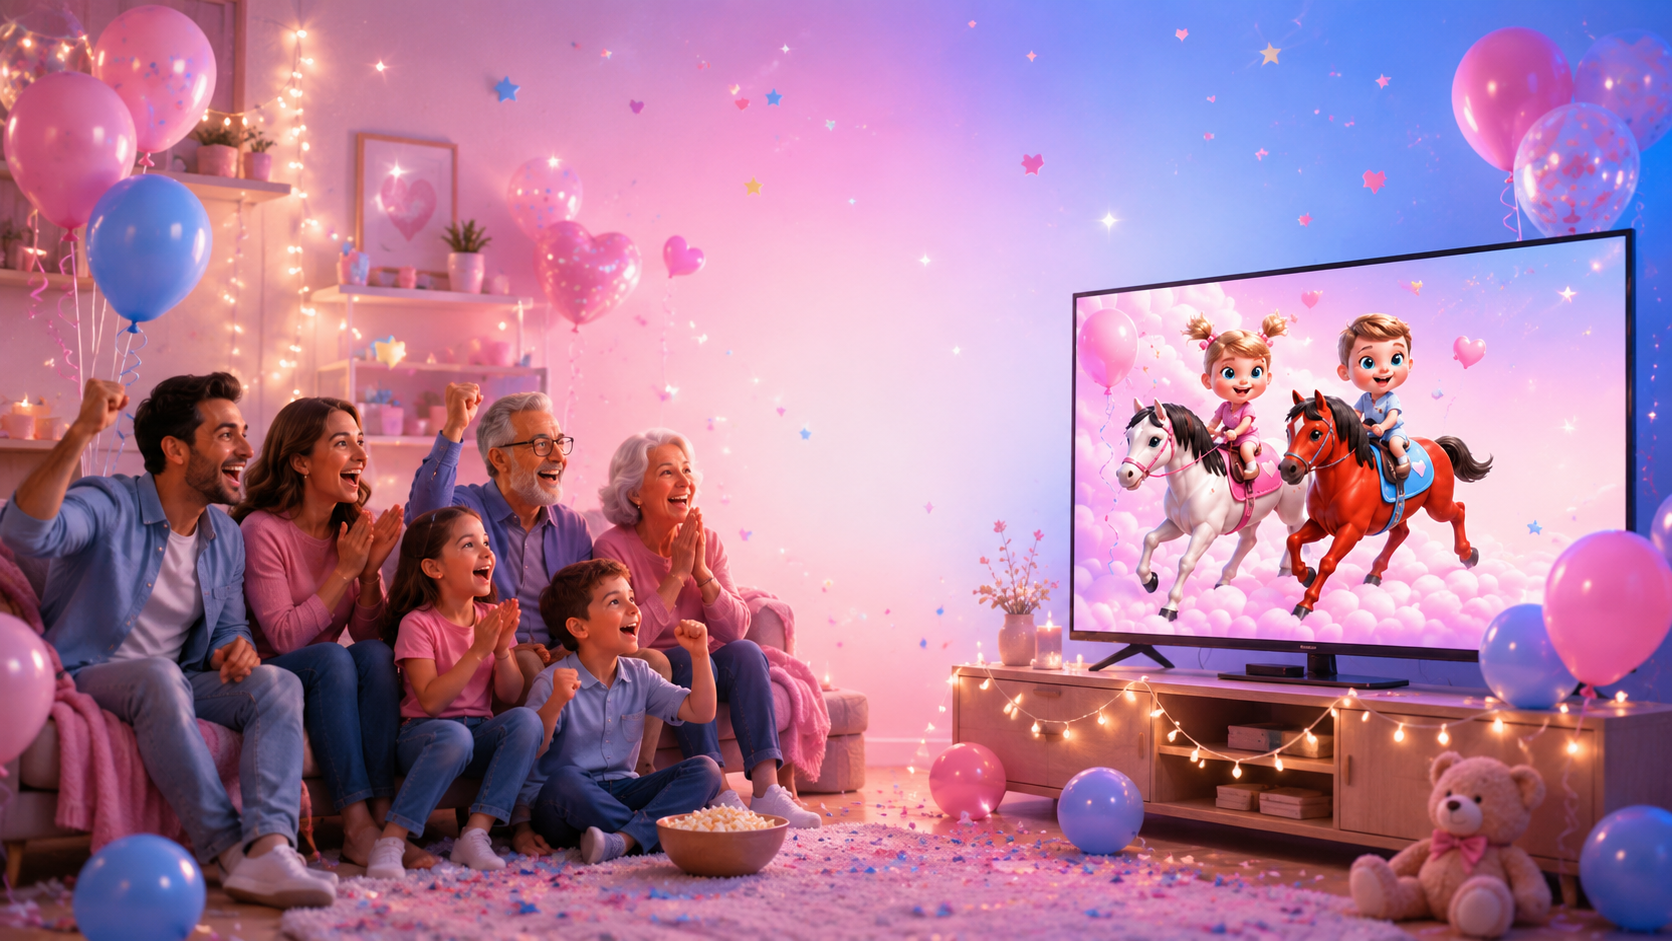
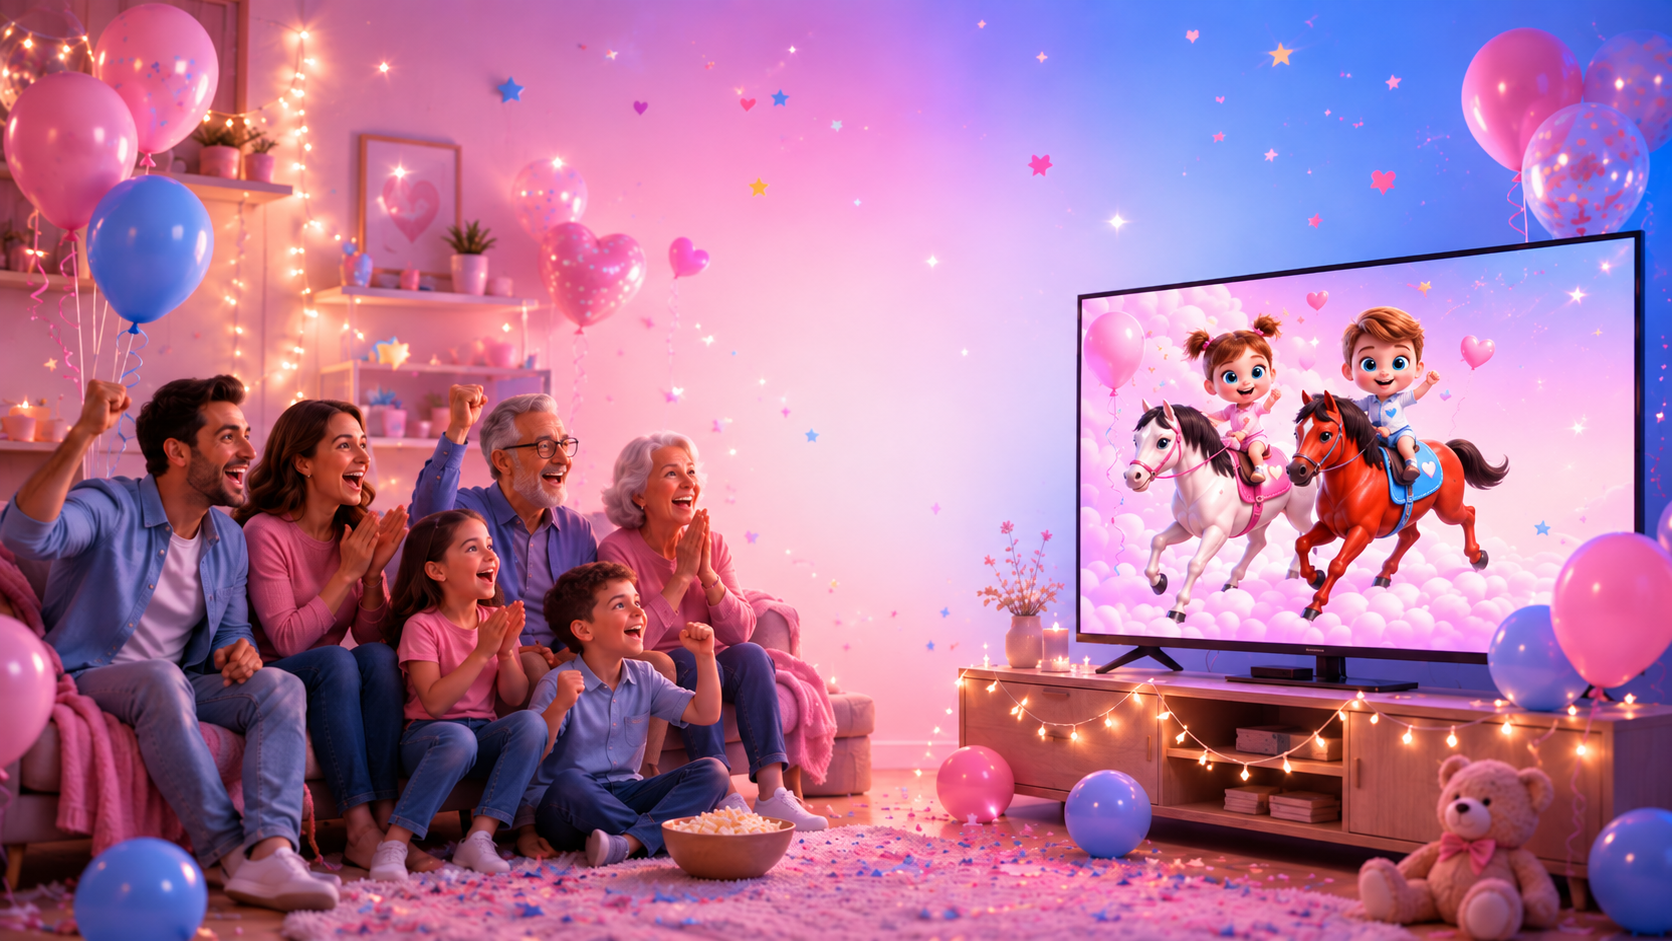
casting guide, time warning, no reveal page

diff --git a/src/components/party/CastInstructionsModal.tsx b/src/components/party/CastInstructionsModal.tsx
@@ -1,0 +1,175 @@
+"use client";
+
+import { useEffect, useState, type ReactNode } from "react";
+import { Lightbulb, Tv, X } from "lucide-react";
+
+type Platform = "ios" | "android" | "windows" | "mac";
+
+type Guide = {
+  label: string;
+  heading: string;
+  steps: ReactNode[];
+  note?: string;
+};
+
+const GUIDES: Record<Platform, Guide> = {
+  ios: {
+    label: "iPhone / iPad",
+    heading: "Using AirPlay / Screen Mirroring",
+    steps: [
+      "Connect your iPhone or iPad and compatible TV to the same Wi-Fi network.",
+      <>Open <strong>Control Center</strong> by swiping down from the top-right corner (or up from the bottom on older devices).</>,
+      <>Tap <strong>Screen Mirroring</strong>.</>,
+      "Select your Apple TV or AirPlay-compatible smart TV.",
+      "Keep your reveal countdown open and enjoy the big moment!",
+    ],
+  },
+  android: {
+    label: "Android",
+    heading: "Using Cast / Screen Mirroring",
+    steps: [
+      "Connect your Android device and compatible TV to the same Wi-Fi network.",
+      "Swipe down to open Quick Settings.",
+      <>Look for <strong>Cast</strong>, <strong>Screen Cast</strong>, or <strong>Smart View</strong> (names vary by device).</>,
+      "Select your TV and follow any on-screen prompts.",
+      "Return to your reveal countdown and enjoy!",
+    ],
+    note: "For Chromecast or Google TV, you can also use the Google Home app's Cast screen option.",
+  },
+  windows: {
+    label: "Windows PC",
+    heading: "Using Wireless Display",
+    steps: [
+      "Turn on your TV and enable screen mirroring or wireless display if supported.",
+      <>Press <strong>Windows + K</strong> on your PC.</>,
+      "Select your compatible TV from the available devices.",
+      "Follow any connection prompts.",
+      "Keep your browser open on the reveal countdown.",
+    ],
+    note: "You can also connect your computer to the TV using an HDMI cable.",
+  },
+  mac: {
+    label: "Mac",
+    heading: "Using AirPlay / Screen Mirroring",
+    steps: [
+      "Connect your Mac and AirPlay-compatible TV to the same Wi-Fi network.",
+      <>Click <strong>Control Center</strong> in your Mac&apos;s menu bar.</>,
+      <>Select <strong>Screen Mirroring</strong>.</>,
+      "Choose your TV and follow any prompts.",
+      "Display your reveal countdown on the shared screen.",
+    ],
+  },
+};
+
+const PLATFORM_ORDER: Platform[] = ["ios", "android", "windows", "mac"];
+
+/** Best guess at the viewer's platform so the right steps show first. */
+function detectPlatform(): Platform {
+  if (typeof navigator === "undefined") return "ios";
+  const ua = navigator.userAgent;
+  if (/iPad|iPhone|iPod/.test(ua) || (navigator.platform === "MacIntel" && navigator.maxTouchPoints > 1)) return "ios";
+  if (/Android/i.test(ua)) return "android";
+  if (/Mac/i.test(ua)) return "mac";
+  if (/Win/i.test(ua)) return "windows";
+  return "ios";
+}
+
+export default function CastInstructionsModal({ onClose }: { onClose: () => void }) {
+  const [platform, setPlatform] = useState<Platform>(detectPlatform);
+  const guide = GUIDES[platform];
+
+  useEffect(() => {
+    const onKey = (e: KeyboardEvent) => {
+      if (e.key === "Escape") onClose();
+    };
+    window.addEventListener("keydown", onKey);
+    return () => window.removeEventListener("keydown", onKey);
+  }, [onClose]);
+
+  return (
+    <div
+      onClick={onClose}
+      className="fixed inset-0 bg-slate-950/40 backdrop-blur-md flex items-center justify-center z-[999] p-4"
+    >
+      <div
+        role="dialog"
+        aria-modal="true"
+        aria-labelledby="cast-modal-title"
+        onClick={(e) => e.stopPropagation()}
+        className="relative bg-white/95 backdrop-blur-2xl rounded-[24px] border border-white/60 p-6 md:p-8 max-w-lg w-full max-h-[90vh] overflow-y-auto shadow-2xl animate-fade-in flex flex-col gap-5 text-left"
+      >
+        <button
+          type="button"
+          onClick={onClose}
+          aria-label="Close"
+          className="absolute top-4 right-4 w-8 h-8 rounded-full flex items-center justify-center text-slate-400 hover:text-slate-700 hover:bg-slate-100 transition-colors cursor-pointer"
+        >
+          <X className="w-4 h-4" />
+        </button>
+
+        <div className="flex flex-col gap-2 pr-8">
+          <h3 id="cast-modal-title" className="flex items-center gap-2 text-lg md:text-xl font-nunito font-extrabold text-slate-800">
+            <Tv className="w-5 h-5 text-[#E8449A] shrink-0" />
+            Make the Big Reveal Even Bigger!
+          </h3>
+          <p className="text-sm text-slate-500 leading-relaxed">
+            Share the excitement with everyone! Display your countdown and reveal on a TV or bigger screen in just a few easy steps.
+          </p>
+        </div>
+
+        <div role="radiogroup" aria-label="Your device" className="grid grid-cols-2 gap-2">
+          {PLATFORM_ORDER.map((key) => {
+            const selected = key === platform;
+            return (
+              <label
+                key={key}
+                className={`flex items-center gap-2.5 px-3.5 py-2.5 rounded-xl border text-sm font-bold cursor-pointer transition-all ${
+                  selected
+                    ? "border-[#E8449A] bg-[#E8449A]/5 text-slate-800 shadow-sm"
+                    : "border-slate-200 bg-white text-slate-600 hover:border-slate-300"
+                }`}
+              >
+                <input
+                  type="radio"
+                  name="cast-platform"
+                  value={key}
+                  checked={selected}
+                  onChange={() => setPlatform(key)}
+                  className="w-4 h-4 accent-[#E8449A] cursor-pointer"
+                />
+                {GUIDES[key].label}
+              </label>
+            );
+          })}
+        </div>
+
+        <div className="border-t border-slate-200 pt-5 flex flex-col gap-3">
+          <h4 className="text-sm md:text-base font-extrabold text-slate-800">{guide.heading}</h4>
+          <ol className="flex flex-col gap-2 text-sm text-slate-600 leading-relaxed">
+            {guide.steps.map((step, i) => (
+              <li key={i} className="flex gap-2.5">
+                <span className="shrink-0 w-5 h-5 mt-0.5 rounded-full bg-gradient-to-br from-[#E8449A] to-[#3A9FE8] text-white text-[11px] font-black flex items-center justify-center">
+                  {i + 1}
+                </span>
+                <span className="[&_strong]:font-bold [&_strong]:text-slate-800">{step}</span>
+              </li>
+            ))}
+          </ol>
+          {guide.note && <p className="text-xs text-slate-400">{guide.note}</p>}
+        </div>
+
+        <div className="rounded-2xl border border-[#3A9FE8]/20 bg-[#3A9FE8]/5 px-4 py-3 flex flex-col gap-1">
+          <p className="flex items-center gap-1.5 text-sm font-extrabold text-slate-800">
+            <Lightbulb className="w-4 h-4 text-[#3A9FE8]" />
+            A little tip!
+          </p>
+          <p className="text-xs text-slate-600 leading-relaxed">
+            Set up your screen a few minutes early, turn up the volume, and keep your device connected so everyone can enjoy the surprise together!
+          </p>
+        </div>
+
+        <p className="text-center text-xs text-slate-400">Casting depends on your device and TV compatibility.</p>
+      </div>
+    </div>
+  );
+}

diff --git a/src/app/guest/[token]/page.tsx b/src/app/guest/[token]/page.tsx
@@ -3,7 +3,8 @@
 import type { FormEvent } from "react";
 import { useCallback, useEffect, useMemo, useRef, useState, Fragment } from "react";
 import { useParams } from "next/navigation";
-import { Sparkles, Calendar, Send, Heart, Users, MessageSquare, Clock, Maximize, Volume2 } from "lucide-react";
+import { Sparkles, Calendar, Send, Heart, Users, MessageSquare, Clock, Maximize, Volume2, Tv } from "lucide-react";
+import CastInstructionsModal from "@/components/party/CastInstructionsModal";
 import RevealPlayer, { isIOSDevice, loadStreamSdk, useHasInteracted } from "@/components/party/RevealPlayer";
 
 type Prediction = "boy" | "girl" | null;
@@ -58,6 +59,8 @@ export default function GuestInvitePage() {
   const [isCompleted, setIsCompleted] = useState(false);
   const [videoUrl, setVideoUrl] = useState<string | null>(null);
   const [videoDurationSeconds, setVideoDurationSeconds] = useState<number | null>(null);
+  const [revealerPending, setRevealerPending] = useState(false);
+  const [isHost, setIsHost] = useState(false);
   const [registryUrl, setRegistryUrl] = useState<string | null>(null);
   const [feed, setFeed] = useState<Array<{ name: string; message: string }>>([]);
   const [invitedGuests, setInvitedGuests] = useState<Array<{ name: string }>>([]);
@@ -68,6 +71,7 @@ export default function GuestInvitePage() {
   const [chatSending, setChatSending] = useState(false);
   const [chatStatus, setChatStatus] = useState<"connecting" | "live" | "reconnecting">("connecting");
   const [showCalendarOptions, setShowCalendarOptions] = useState(false);
+  const [showCastGuide, setShowCastGuide] = useState(false);
   const [showEmojiPicker, setShowEmojiPicker] = useState(false);
 
   const [prediction, setPrediction] = useState<Prediction>(null);
@@ -95,6 +99,7 @@ export default function GuestInvitePage() {
     }
 
     setGuestName(data?.guest?.name || "Guest");
+    setIsHost(Boolean(data?.guest?.isHost));
     setParentName(data?.reveal?.parentName || "Parents");
     setRevealAtIso(data?.reveal?.revealAtIso || null);
     setRevealTimezone(data?.reveal?.revealTimezone || "UTC");
@@ -104,6 +109,7 @@ export default function GuestInvitePage() {
     setVideoDurationSeconds(
       typeof data?.reveal?.videoDurationSeconds === "number" ? data.reveal.videoDurationSeconds : null
     );
+    setRevealerPending(Boolean(data?.reveal?.revealerPending));
     setRegistryUrl(data?.reveal?.registryUrl || null);
     setFeed(Array.isArray(data?.feed) ? data.feed : []);
     setInvitedGuests(Array.isArray(data?.invitedGuests) ? data.invitedGuests : []);
@@ -529,7 +535,7 @@ export default function GuestInvitePage() {
 
           {/* 2. REVEAL VIDEO / COUNTDOWN AREA (Centered Glassmorphic Video Box - Full Width) */}
           <section className={`relative overflow-hidden transition-all duration-300 w-full ${isLive && videoUrl ? "bg-slate-950/20 backdrop-blur-xl border border-white/10 shadow-2xl rounded-[24px]" : "border border-white/50 border-[1.5px] rounded-[32px] py-4 px-5 md:py-5 md:px-8 shadow-2xl flex flex-col items-center justify-center"}`}>
-            {!isLive && (
+            {(!isLive || revealerPending) && (
               <>
                 {/* Full-bleed background image for this section */}
                 <div
@@ -576,6 +582,37 @@ export default function GuestInvitePage() {
                     </button>
                   </div>
                 </>
+              ) : isLive && revealerPending ? (
+                // Reveal time passed and the revealer never picked the gender, so there is no video.
+                // The host gets the support/reschedule message; guests get a gentle heads-up.
+                <div className="w-full flex flex-col items-center justify-center text-center gap-3 py-8 px-4 md:px-10 z-10 relative">
+                  {isHost ? (
+                    <>
+                      <h2 className="text-xl md:text-2xl font-nunito font-extrabold text-transparent bg-clip-text bg-gradient-to-r from-[#E8449A] to-[#3A9FE8] drop-shadow-sm">
+                        Your Reveal Isn&apos;t Ready Yet
+                      </h2>
+                      <p className="text-sm md:text-base text-slate-700 font-semibold max-w-xl leading-relaxed">
+                        Your scheduled reveal time has arrived, but your revealer hasn&apos;t selected the gender yet, so we weren&apos;t able to create your reveal video.
+                      </p>
+                      <p className="text-sm md:text-base text-slate-700 font-semibold max-w-xl leading-relaxed">
+                        Don&apos;t worry! You can still have your special moment. Please contact{" "}
+                        <a href="mailto:support@virtualgenderreveal.com" className="text-[#E8449A] font-bold underline underline-offset-2 hover:text-[#B0246F]">
+                          support@virtualgenderreveal.com
+                        </a>{" "}
+                        and we&apos;ll help you reschedule your reveal.
+                      </p>
+                    </>
+                  ) : (
+                    <>
+                      <h2 className="text-xl md:text-2xl font-nunito font-extrabold text-transparent bg-clip-text bg-gradient-to-r from-[#E8449A] to-[#3A9FE8] drop-shadow-sm">
+                        The Reveal Is Running a Little Late
+                      </h2>
+                      <p className="text-sm md:text-base text-slate-700 font-semibold max-w-xl leading-relaxed">
+                        The big moment isn&apos;t quite ready yet. {parentName} will share a new reveal time soon, so keep this link handy!
+                      </p>
+                    </>
+                  )}
+                </div>
               ) : (
                 <div className="w-full h-full flex flex-col items-center justify-center text-center p-0 bg-transparent z-10 relative">
                   <div className="flex flex-col items-center gap-1.5 w-full">
@@ -707,6 +744,15 @@ export default function GuestInvitePage() {
                         </button>
                       )
                     )}
+
+                    <button
+                      type="button"
+                      onClick={() => setShowCastGuide(true)}
+                      className="mt-3 px-4 py-2 rounded-full bg-white/80 hover:bg-white border border-[#E8449A]/30 text-[#B0246F] text-xs md:text-sm font-black shadow-md flex items-center gap-1.5 transition-all hover:scale-105 active:scale-95 cursor-pointer"
+                    >
+                      <Tv className="w-4 h-4 text-[#E8449A]" />
+                      Watch on a Bigger Screen
+                    </button>
                   </div>
                 </div>
               )}
@@ -998,6 +1044,8 @@ export default function GuestInvitePage() {
             </section>
           </div>
         </div>
+
+        {showCastGuide && <CastInstructionsModal onClose={() => setShowCastGuide(false)} />}
 
         {/* Calendar Selection Dialog Modal */}
         {showCalendarOptions && (

diff --git a/src/app/api/guest/[token]/route.ts b/src/app/api/guest/[token]/route.ts
@@ -47,6 +47,7 @@ export async function GET(req: NextRequest, { params }: { params: Promise<{ toke
     plan?: string;
     partyEnabled?: boolean;
     registryUrl?: string | null;
+    genderStatus?: string;
   };
   if (isBundleOfJoyAnnouncement(data)) {
     return NextResponse.json(
@@ -62,6 +63,11 @@ export async function GET(req: NextRequest, { params }: { params: Promise<{ toke
   // the stored videoUrl is left as-is because the dashboard download relies on it.
   const staticStreamUid = data.videoUrl ? getStaticRevealStreamUid(data.videoUrl) : null;
   const playbackUrl = staticStreamUid ? buildStreamWatchUrl(staticStreamUid) : data.videoUrl || null;
+
+  // Reveal time has passed but the revealer never picked the gender, so no video can
+  // exist. Only this flag is exposed, never the gender itself.
+  const revealerPending =
+    isLive && !playbackUrl && data.mode === "reveal" && data.genderStatus !== "submitted";
 
   // Reveals finalized before durations were recorded have no videoDurationSeconds; look it
   // up once so the party page can cap its sync seek at the clip length.
@@ -128,7 +134,7 @@ export async function GET(req: NextRequest, { params }: { params: Promise<{ toke
     .map((m) => ({ name: m.name || "Guest" }));
   return NextResponse.json({
     success: true,
-    guest: { name: guest.data()?.name },
+    guest: { name: guest.data()?.name, isHost },
     response: {
       prediction: (clientPrediction || (guest.data()?.prediction as "boy" | "girl" | null)) ?? null,
       message: (guest.data()?.message as string | null) ?? null,
@@ -142,6 +148,7 @@ export async function GET(req: NextRequest, { params }: { params: Promise<{ toke
       isLive,
       isCompleted,
       videoUrl: isLive ? playbackUrl : null,
+      revealerPending,
       videoDurationSeconds: isLive ? videoDurationSeconds : null,
       registryUrl: data.plan !== "basic" ? data.registryUrl || null : null,
     },

diff --git a/src/components/party/RevealPlayer.tsx b/src/components/party/RevealPlayer.tsx
@@ -69,11 +69,14 @@ export function useHasInteracted(): boolean {
       setHasInteracted(true);
       return;
     }
+    // "click" rather than "pointerdown": the state change swaps the sound prompt for a
+    // shorter line, and doing that mid-tap shifts the layout so the tap misses the button
+    // it started on (e.g. "Watch on a Bigger Screen").
     const mark = () => setHasInteracted(true);
-    window.addEventListener("pointerdown", mark, { once: true });
+    window.addEventListener("click", mark, { once: true });
     window.addEventListener("keydown", mark, { once: true });
     return () => {
-      window.removeEventListener("pointerdown", mark);
+      window.removeEventListener("click", mark);
       window.removeEventListener("keydown", mark);
     };
   }, []);

diff --git a/src/app/new-reveal/page.tsx b/src/app/new-reveal/page.tsx
@@ -1104,6 +1104,10 @@ export default function NewRevealPage() {
                     <span className="text-xs text-gray-400 font-medium">All guest invites adjust automatically to their local time.</span>
                   </div>
                 </div>
+                <p className="flex items-start gap-1.5 rounded-xl border border-[#E8449A]/15 bg-[#E8449A]/5 px-3 py-2 text-xs font-normal text-[#B0246F]">
+                  <span aria-hidden="true">💗</span>
+                  <span>Your revealer needs to select the gender before we can create your reveal video. Make sure to leave them plenty of time!</span>
+                </p>
               </div>
             )}
 
